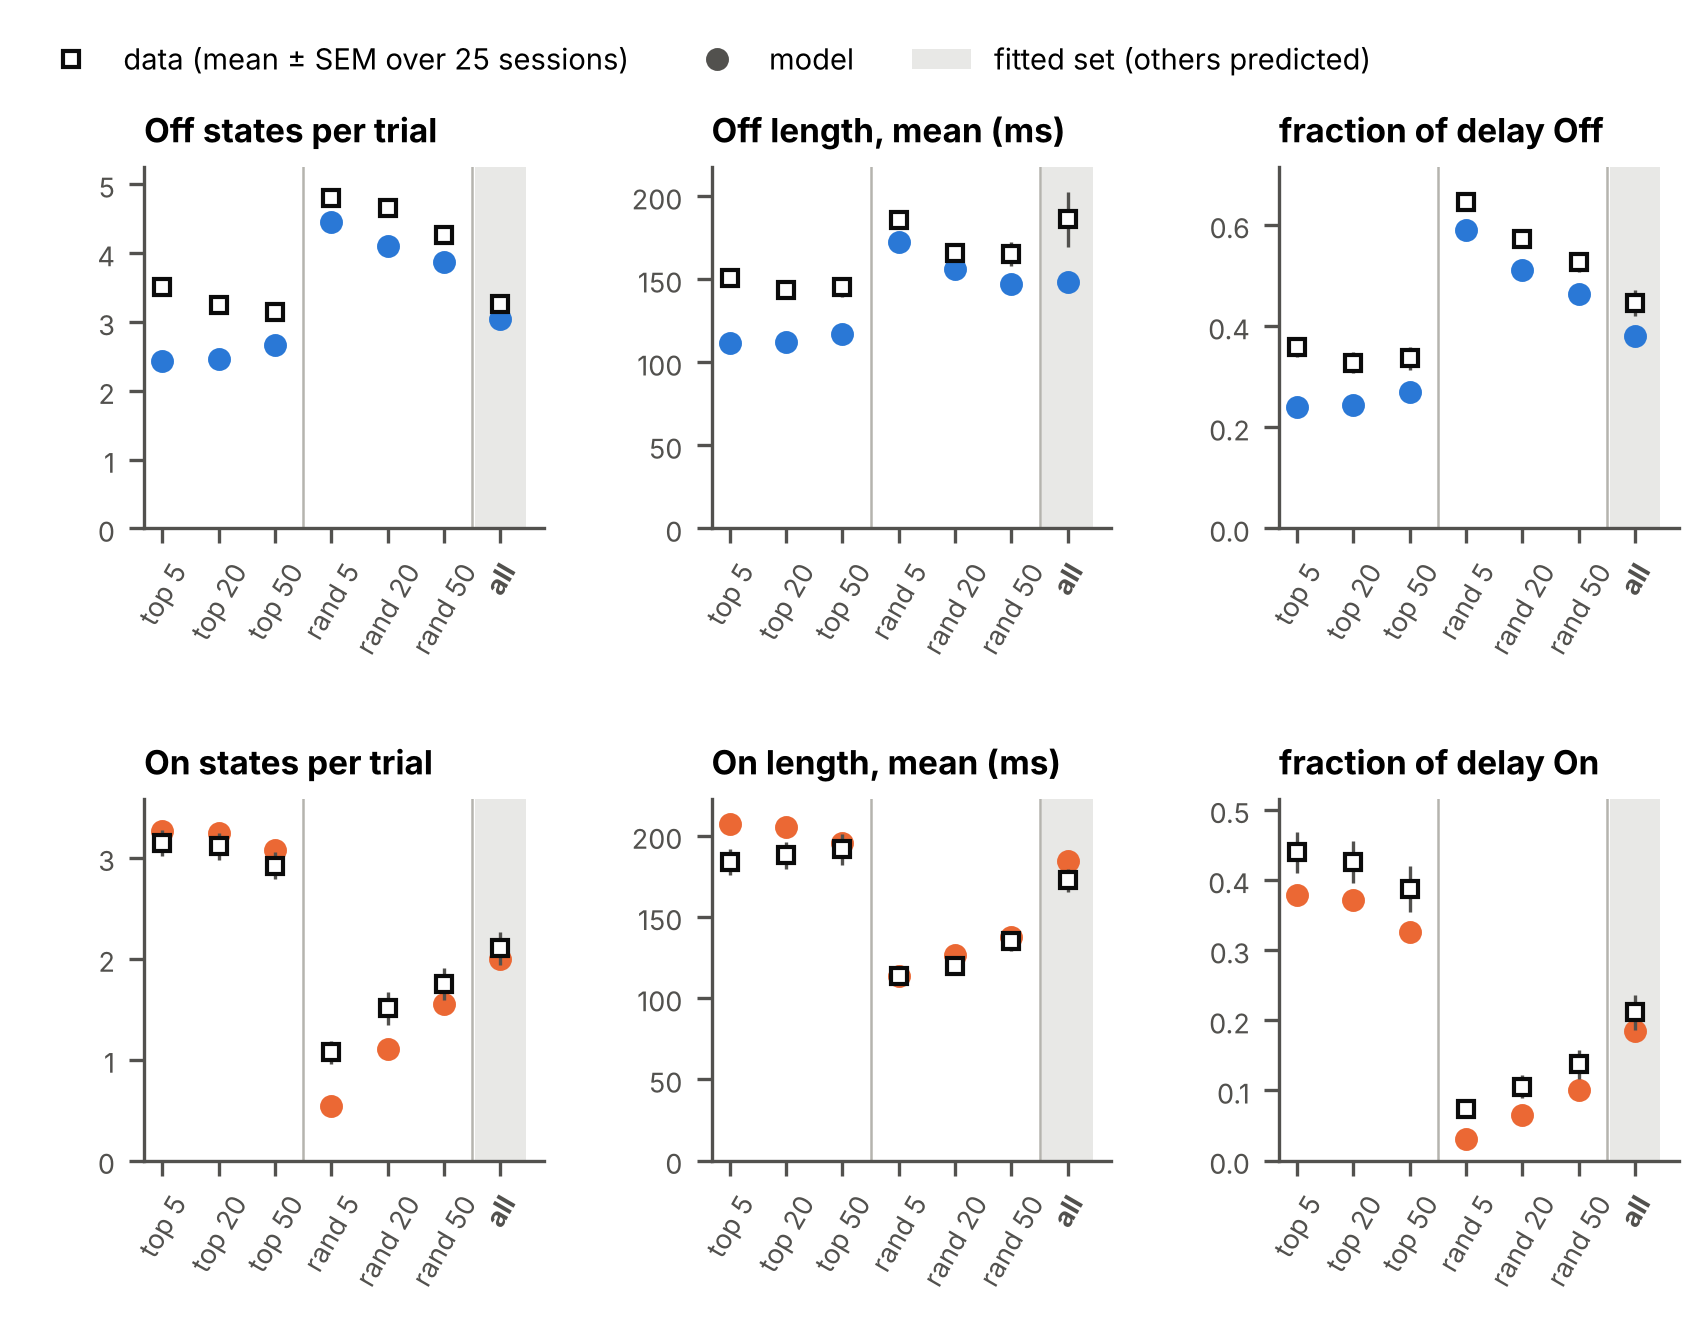
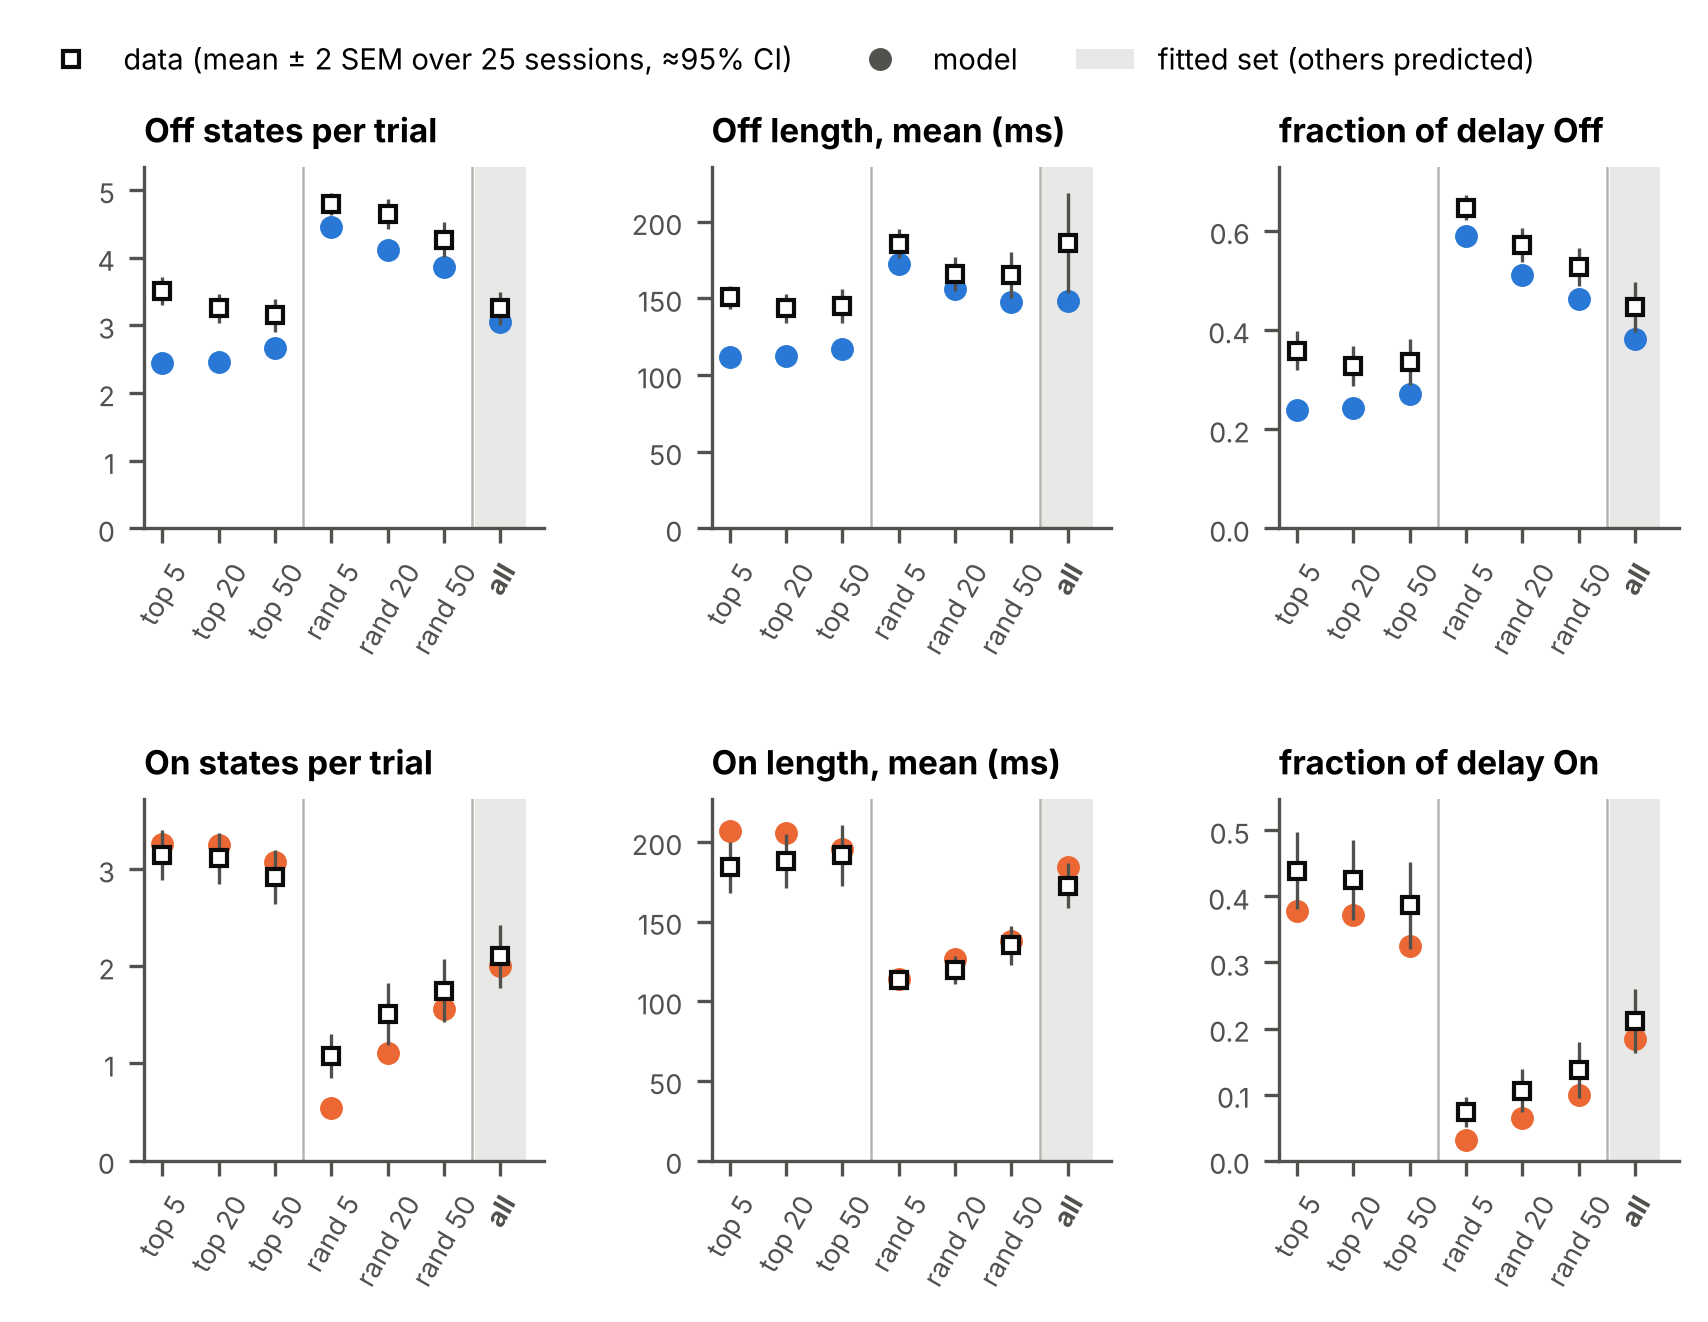
Figure 2: data error bars are 2 SEM (≈95% CI)
Claude-Session: https://claude.ai/code/session_01DWA8oLxpZgubPZ4A6kb3Lh

diff --git a/paper_model/make_figures.py b/paper_model/make_figures.py
@@ -157,7 +157,7 @@ def figure2(out, summ, path):
             a.set_ylabel('% of trials', fontsize=7)
             continue
         if dk:
-            a.errorbar(x, [summ[s][dk] for s in R.SETS], yerr=[summ[s][dk + '_sem'] for s in R.SETS], fmt='s', ms=4,
+            a.errorbar(x, [summ[s][dk] for s in R.SETS], yerr=[2 * summ[s][dk + '_sem'] for s in R.SETS], fmt='s', ms=4,
                        mfc='white', mec=INK, ecolor=INK2, elinewidth=0.8, zorder=3)
         a.plot(x, [out['sets'][s][mk] for s in R.SETS], 'o', ms=4.5, color=col, zorder=2)
         a.set_xticks(x); a.set_xticklabels(R.LABELS, rotation=60, fontsize=6.5)
@@ -166,7 +166,7 @@ def figure2(out, summ, path):
         a.axvspan(j - 0.45, j + 0.45, color=MUTED, alpha=0.3, lw=0, zorder=0)    # the set the dynamics were fitted to
         a.get_xticklabels()[j].set_fontweight('bold')
         a.set_ylim(0, a.get_ylim()[1] * 1.05); a.tick_params(labelsize=6.5)
-    fig.legend(handles=[Line2D([], [], ls='', marker='s', ms=4, mfc='white', mec=INK, label='data (mean ± SEM over 25 sessions)'),
+    fig.legend(handles=[Line2D([], [], ls='', marker='s', ms=4, mfc='white', mec=INK, label='data (mean ± 2 SEM over 25 sessions, ≈95% CI)'),
                         Line2D([], [], ls='', marker='o', ms=4.5, color=INK2, label='model'),
                         plt.Rectangle((0, 0), 1, 1, color=MUTED, alpha=0.3, lw=0, label='fitted set (others predicted)')],
                loc='lower left', bbox_to_anchor=(0.06, 0.93), ncol=3, fontsize=7)
